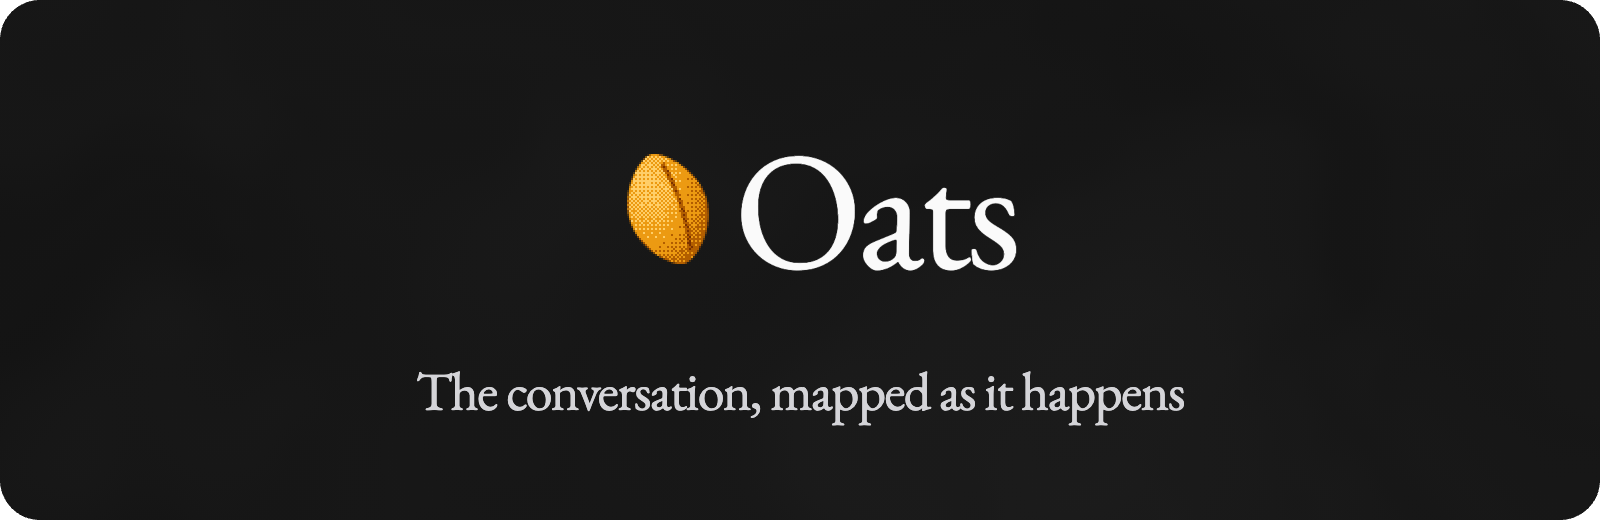
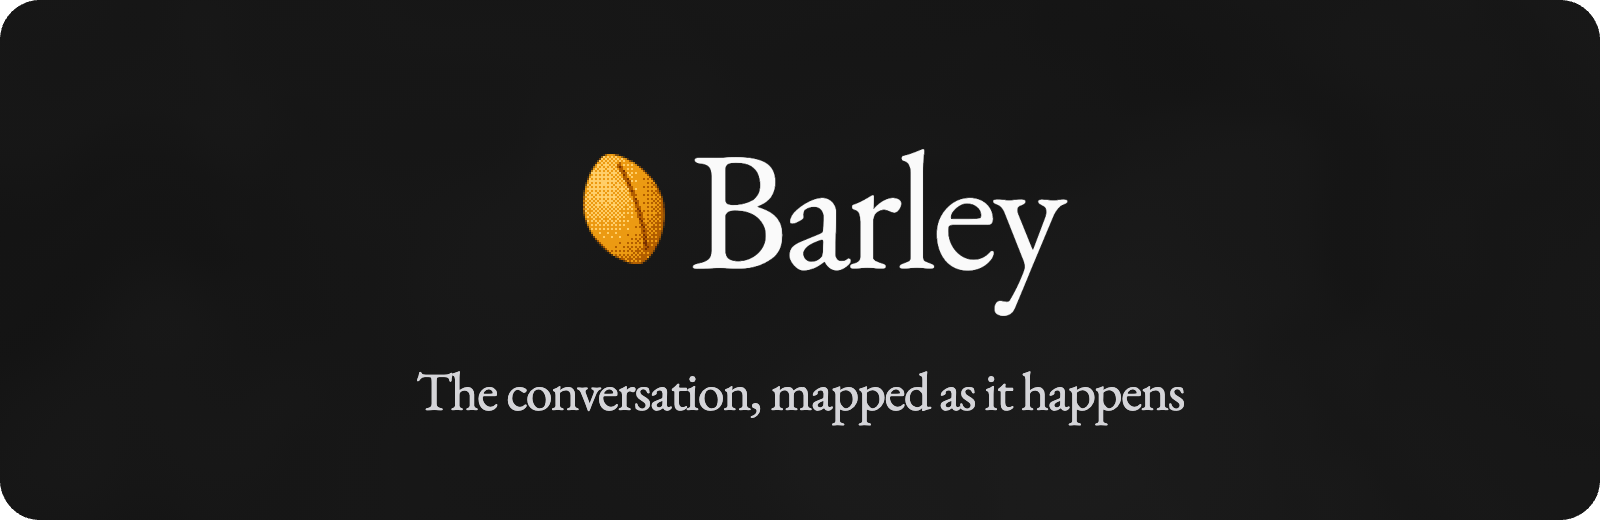
Site and README: the app is called Barley
HOLD: merging this publishes the site (Vercel deploys main). Merge it
on Alex's word, after the v0.4.0 release is published: the download
buttons now name Barley-arm64.dmg and Barley-x64.dmg, which only a
release built with the Barley bundle (#271) has.

- The site's text, title, link previews, 404 page and wordmark say
  Barley. site/assets/site.js is rebuilt (npm run build:site).
- The README says Barley and links to the Barley DMGs.
- site/render-images.cjs paints "Barley": the README banners, the link
  preview (og.png) and the repository's social preview. Its other
  images came out the same, so they are not in this commit.
- test/helpers/site.test.js checks the Barley names against the
  release job.

Not yet changed: the site's six screenshots, its four loops and the
film show the app with "Oats" in its sidebar. They need new renders.
The site stays at oats.alexgaoth.com until there is a new domain.

Changed region(s): [[0.3438, 0.2769, 0.6875, 0.6154]]

diff --git a/site/index.html b/site/index.html
@@ -3,10 +3,10 @@
   <head>
     <meta charset="utf-8" />
     <meta name="viewport" content="width=device-width, initial-scale=1, viewport-fit=cover" />
-    <title>Oats · A live map of the conversation in the room</title>
+    <title>Barley · A live map of the conversation in the room</title>
     <meta
       name="description"
-      content="Oats maps the conversation in the room as it happens: topics as they turn, questions as they're asked, and whether anyone answered. Free and open source."
+      content="Barley maps the conversation in the room as it happens: topics as they turn, questions as they're asked, and whether anyone answered. Free and open source."
     />
     <meta name="color-scheme" content="light" />
     <meta name="theme-color" content="#f3f3f3" />
@@ -16,19 +16,19 @@
     <link rel="apple-touch-icon" href="assets/apple-touch-icon.png" />
     <meta property="og:type" content="website" />
     <meta property="og:url" content="https://oats.alexgaoth.com/" />
-    <meta property="og:title" content="Oats · A live map of the conversation in the room" />
+    <meta property="og:title" content="Barley · A live map of the conversation in the room" />
     <meta
       property="og:description"
-      content="Oats maps the conversation in the room as it happens: topics as they turn, questions as they're asked, and whether anyone answered. Free and open source."
+      content="Barley maps the conversation in the room as it happens: topics as they turn, questions as they're asked, and whether anyone answered. Free and open source."
     />
     <meta property="og:image" content="https://oats.alexgaoth.com/assets/og.png" />
     <meta property="og:image:width" content="1200" />
     <meta property="og:image:height" content="630" />
     <meta name="twitter:card" content="summary_large_image" />
-    <meta name="twitter:title" content="Oats · A live map of the conversation in the room" />
+    <meta name="twitter:title" content="Barley · A live map of the conversation in the room" />
     <meta
       name="twitter:description"
-      content="Oats maps the conversation in the room as it happens: topics as they turn, questions as they're asked, and whether anyone answered. Free and open source."
+      content="Barley maps the conversation in the room as it happens: topics as they turn, questions as they're asked, and whether anyone answered. Free and open source."
     />
     <link rel="preload" href="assets/fonts/eb-garamond-latin-400.woff2" as="font" type="font/woff2" crossorigin />
     <link rel="preload" href="assets/fonts/inter-latin-wght.woff2" as="font" type="font/woff2" crossorigin />
@@ -40,9 +40,9 @@
 
     <header class="nav">
       <div class="wrap nav-row">
-        <a class="brand" href="#top" aria-label="Oats, back to the top">
+        <a class="brand" href="#top" aria-label="Barley, back to the top">
           <canvas class="mark mark-small" data-mark="small" aria-hidden="true"></canvas>
-          <span class="wordmark">Oats</span>
+          <span class="wordmark">Barley</span>
         </a>
         <nav class="nav-links" aria-label="Sections">
           <a href="#map">How it works</a>
@@ -64,10 +64,10 @@
           </button>
           <h1>The conversation, mapped as it happens</h1>
           <p class="lead">
-            Oats maps the conversation in the room as it happens: topics as they turn, questions as they're asked, and
+            Barley maps the conversation in the room as it happens: topics as they turn, questions as they're asked, and
             whether anyone answered.
           </p>
-          <p class="why"><span>Notes after the meeting come too late.</span> <span>Oats shows you the conversation while you can still steer it.</span></p>
+          <p class="why"><span>Notes after the meeting come too late.</span> <span>Barley shows you the conversation while you can still steer it.</span></p>
           <div class="cta-row">
             <a class="button button-honey button-large" data-download="primary" href="https://github.com/alexgaoth/oats/releases/latest">
               <svg class="icon" viewBox="0 0 24 24" aria-hidden="true"><path d="M12 15V3" /><path d="M21 15v4a2 2 0 0 1-2 2H5a2 2 0 0 1-2-2v-4" /><path d="m7 10 5 5 5-5" /></svg>
@@ -85,7 +85,7 @@
             <li>One microphone on the table</li>
           </ul>
           <p class="other-arch"><a data-other-arch href="https://github.com/alexgaoth/oats/releases/latest">Intel Mac? Get the Intel build</a></p>
-          <p class="not-mac">Oats is a Mac app. Open this page on a Mac to download it.</p>
+          <p class="not-mac">Barley is a Mac app. Open this page on a Mac to download it.</p>
         </div>
         <figure class="window hero-window" data-live-slot="hero">
           <img
@@ -94,7 +94,7 @@
             sizes="(min-width: 1180px) 1120px, calc(100vw - 32px)"
             width="1120"
             height="616"
-            alt="Oats recording a launch review at 11:09. One line draws the conversation, with marks where an unknown, an unanswered and an answered question were asked. Below it, three topics as lanes: Pellwood launch date decision, SAML clock skew fix, and SOC 2 audit timeline, the one the room is on."
+            alt="Barley recording a launch review at 11:09. One line draws the conversation, with marks where an unknown, an unanswered and an answered question were asked. Below it, three topics as lanes: Pellwood launch date decision, SAML clock skew fix, and SOC 2 audit timeline, the one the room is on."
             fetchpriority="high"
           />
         </figure>
@@ -153,7 +153,7 @@
             </dl>
           </div>
           <figure class="window feature-visual" data-live-slot="questions">
-            <video data-loop muted loop playsinline preload="none" poster="media/loop-questions.webp" width="1040" height="900" aria-label="A question is asked and its card appears as Open. After someone says they do not know, it turns Unknown and Oats searches it on the web">
+            <video data-loop muted loop playsinline preload="none" poster="media/loop-questions.webp" width="1040" height="900" aria-label="A question is asked and its card appears as Open. After someone says they do not know, it turns Unknown and Barley searches it on the web">
               <source src="media/loop-questions.mp4" type="video/mp4" />
             </video>
           </figure>
@@ -165,7 +165,7 @@
           <div class="feature-copy">
             <h2>Unsure answers, checked on the spot</h2>
             <p>
-              When an answer sounds unsure, Oats looks it up in your notes and past conversations while people are still
+              When an answer sounds unsure, Barley looks it up in your notes and past conversations while people are still
               talking.
             </p>
             <p class="aside">
@@ -174,7 +174,7 @@
             </p>
           </div>
           <figure class="window feature-visual">
-            <img src="media/check-live.webp" width="1728" height="1592" loading="lazy" decoding="async" alt="A recording at 8:33. Under the question Do we have a date from the auditors yet, asked 17 seconds earlier and marked Unknown, Oats shows Found it: Fieldwork starts November 10, from soc2-plan.md, Auditor dates. The transcript below has the reply: I don't know yet." />
+            <img src="media/check-live.webp" width="1728" height="1592" loading="lazy" decoding="async" alt="A recording at 8:33. Under the question Do we have a date from the auditors yet, asked 17 seconds earlier and marked Unknown, Barley shows Found it: Fieldwork starts November 10, from soc2-plan.md, Auditor dates. The transcript below has the reply: I don't know yet." />
           </figure>
         </div>
       </section>
@@ -237,12 +237,12 @@
           </div>
           <div class="privacy-copy">
             <ul class="privacy-lines">
-              <li>No account. No Oats server.</li>
+              <li>No account. No Barley server.</li>
               <li>On this Mac, audio and transcripts never leave it.</li>
               <li>With your API key, transcripts go to your provider, and the audio too if it's an OpenAI key.</li>
             </ul>
             <p>
-              When a question meets a clear <q>I don't know</q>, Oats opens a web search for the question text in your
+              When a question meets a clear <q>I don't know</q>, Barley opens a web search for the question text in your
               browser. You can turn that off in Settings.
             </p>
             <p>
@@ -251,7 +251,7 @@
             </p>
           </div>
           <figure class="counter">
-            <img src="media/sidebar-foot.webp" width="464" height="704" loading="lazy" decoding="async" alt="The bottom of the Oats sidebar: Settings, then On this Mac, small.en on Metal and 0 network requests since launch, above a dithered sky and wheat field." />
+            <img src="media/sidebar-foot.webp" width="464" height="704" loading="lazy" decoding="async" alt="The bottom of the Barley sidebar: Settings, then On this Mac, small.en on Metal and 0 network requests since launch, above a dithered sky and wheat field." />
           </figure>
         </div>
       </section>
@@ -285,7 +285,7 @@
           <button class="mark-button" type="button" aria-label="Toss the oat">
             <canvas class="mark mark-download" data-mark="large" data-interactive aria-hidden="true"></canvas>
           </button>
-          <h2>Get Oats for your Mac</h2>
+          <h2>Get Barley for your Mac</h2>
           <div class="cta-row">
             <a class="button button-honey button-large" data-download="primary" href="https://github.com/alexgaoth/oats/releases/latest">
               <svg class="icon" viewBox="0 0 24 24" aria-hidden="true"><path d="M12 15V3" /><path d="M21 15v4a2 2 0 0 1-2 2H5a2 2 0 0 1-2-2v-4" /><path d="m7 10 5 5 5-5" /></svg>
@@ -301,18 +301,18 @@
             <a data-other-arch href="https://github.com/alexgaoth/oats/releases/latest">Intel Mac? Get the Intel build</a>
             <span class="note">Built for Intel, not yet tested on an Intel Mac.</span>
           </p>
-          <p class="not-mac">Oats is a Mac app. Open this page on a Mac to download it.</p>
+          <p class="not-mac">Barley is a Mac app. Open this page on a Mac to download it.</p>
 
           <div class="first-run">
             <h3>The first time you open it</h3>
             <p>This version is not notarized by Apple yet, so macOS stops it once.</p>
             <ol>
-              <li>Open the DMG and drag Oats to Applications.</li>
-              <li>Open Oats. macOS says it cannot verify the app. Click Done.</li>
-              <li>Open System Settings, then Privacy &amp; Security. Scroll down and click Open Anyway next to <q>Oats was blocked</q>.</li>
+              <li>Open the DMG and drag Barley to Applications.</li>
+              <li>Open Barley. macOS says it cannot verify the app. Click Done.</li>
+              <li>Open System Settings, then Privacy &amp; Security. Scroll down and click Open Anyway next to <q>Barley was blocked</q>.</li>
               <li>Confirm with your password or Touch ID. macOS asks only once.</li>
             </ol>
-            <p class="first-run-next">In setup, choose where Oats runs: on this Mac, or with your own API key.</p>
+            <p class="first-run-next">In setup, choose where Barley runs: on this Mac, or with your own API key.</p>
           </div>
           <p class="consent">Tell people before you record. Some places, for example California, need everyone's consent.</p>
         </div>
@@ -323,7 +323,7 @@
       <div class="wrap footer-row">
         <div class="brand">
           <canvas class="mark mark-small" data-mark="small" aria-hidden="true"></canvas>
-          <span class="wordmark">Oats</span>
+          <span class="wordmark">Barley</span>
         </div>
         <ul class="footer-links">
           <li><a href="https://github.com/alexgaoth/oats">Source</a></li>

diff --git a/site/404.html b/site/404.html
@@ -3,7 +3,7 @@
   <head>
     <meta charset="utf-8" />
     <meta name="viewport" content="width=device-width, initial-scale=1, viewport-fit=cover" />
-    <title>Not found · Oats</title>
+    <title>Not found · Barley</title>
     <meta name="robots" content="noindex" />
     <meta name="color-scheme" content="light" />
     <link rel="icon" type="image/png" sizes="32x32" href="/assets/favicon-32.png" />
@@ -20,7 +20,7 @@
         <h2>This page is not here</h2>
         <p class="consent">The address may be old, or it may have a typo.</p>
         <div class="cta-row">
-          <a class="button button-quiet button-large" href="/">Go to the Oats home page</a>
+          <a class="button button-quiet button-large" href="/">Go to the Barley home page</a>
         </div>
       </div>
     </main>

diff --git a/test/helpers/site.test.js b/test/helpers/site.test.js
@@ -21,7 +21,7 @@ test("the site's script is built from the current sources", async () => {
 test("the download buttons use the names the release job publishes", () => {
   const download = fs.readFileSync(path.join(SITE, "src/download.js"), "utf8");
   const workflow = fs.readFileSync(path.join(ROOT, ".github/workflows/build-and-notarize.yml"), "utf8");
-  for (const name of ["Oats-arm64.dmg", "Oats-x64.dmg"]) {
+  for (const name of ["Barley-arm64.dmg", "Barley-x64.dmg"]) {
     assert.match(download, new RegExp(`/latest/download/${name.replace(".", "\\.")}`));
     assert.match(workflow, new RegExp(`\\b${name.replace(".", "\\.")}\\b`), `the release job publishes ${name}`);
   }

diff --git a/site/src/download.js b/site/src/download.js
@@ -1,11 +1,11 @@
 // The download buttons: one click to the right DMG. The release assets keep
 // the same names in every version (build-and-notarize.yml, the release job), so
-// "latest" always serves the newest published Oats.
+// "latest" always serves the newest published Barley.
 
 const RELEASES = "https://github.com/alexgaoth/oats/releases";
 export const DMG = {
-  arm64: `${RELEASES}/latest/download/Oats-arm64.dmg`,
-  x64: `${RELEASES}/latest/download/Oats-x64.dmg`,
+  arm64: `${RELEASES}/latest/download/Barley-arm64.dmg`,
+  x64: `${RELEASES}/latest/download/Barley-x64.dmg`,
 };
 
 function isMac() {

diff --git a/site/assets/site.js b/site/assets/site.js
@@ -282,8 +282,8 @@ function B(e) {
 //#endregion
 //#region site/src/download.js
 var V = "https://github.com/alexgaoth/oats/releases", H = {
-	arm64: `${V}/latest/download/Oats-arm64.dmg`,
-	x64: `${V}/latest/download/Oats-x64.dmg`
+	arm64: `${V}/latest/download/Barley-arm64.dmg`,
+	x64: `${V}/latest/download/Barley-x64.dmg`
 };
 function U() {
 	let e = navigator.userAgentData?.platform || navigator.platform || "";

diff --git a/site/src/mark.js b/site/src/mark.js
@@ -1,4 +1,4 @@
-// The Oats symbol on the site: the app's own grain (src/components/shell/
+// The Barley symbol on the site: the app's own grain (src/components/shell/
 // grainCanvas.ts) and its own toss (src/helpers/oatsMarkMotion.mjs), dithered the
 // way the film and the app icon show it: about 110 dots across, each a crisp
 // square of device pixels, in the four honey tones pushed apart

diff --git a/site/assets/site.css b/site/assets/site.css
@@ -1,4 +1,4 @@
-/* Oats site. The app's tokens (DESIGN.md §2): zinc neutrals and one honey
+/* Barley site. The app's tokens (DESIGN.md §2): zinc neutrals and one honey
    brand colour. The film's stage and wordmark: light grey fluid behind the
    window, EB Garamond for the name and the headings, Inter for everything
    else. One light theme, like the film. */

diff --git a/README.md b/README.md
@@ -2,35 +2,35 @@
   <a href="https://oats-mac.vercel.app">
     <picture>
       <source media="(prefers-color-scheme: dark)" srcset="docs/media/banner-dark.png">
-      <img src="docs/media/banner-light.png" width="800" alt="Oats. The conversation, mapped as it happens.">
+      <img src="docs/media/banner-light.png" width="800" alt="Barley. The conversation, mapped as it happens.">
     </picture>
   </a>
 </p>
 
 <p align="center">
-  Oats maps the conversation in the room as it happens: topics as they turn,<br>
+  Barley maps the conversation in the room as it happens: topics as they turn,<br>
   questions as they're asked, and whether anyone answered.
 </p>
 
 <p align="center">
   Notes after the meeting come too late.<br>
-  Oats shows you the conversation while you can still steer it.
+  Barley shows you the conversation while you can still steer it.
 </p>
 
 <p align="center">
-  <a href="https://github.com/alexgaoth/oats/releases/latest/download/Oats-arm64.dmg"><img src="docs/media/download-mac.png" width="260" alt="Download Oats for Mac"></a>
+  <a href="https://github.com/alexgaoth/oats/releases/latest/download/Barley-arm64.dmg"><img src="docs/media/download-mac.png" width="260" alt="Download Barley for Mac"></a>
 </p>
 
 <p align="center">
-  <sub>Version 0.2.0 for Apple Silicon, macOS 12 or later. Also as an <a href="https://github.com/alexgaoth/oats/releases/latest/download/Oats-x64.dmg">Intel build</a>, not yet tested on an Intel Mac.</sub><br>
+  <sub>Version 0.2.0 for Apple Silicon, macOS 12 or later. Also as an <a href="https://github.com/alexgaoth/oats/releases/latest/download/Barley-x64.dmg">Intel build</a>, not yet tested on an Intel Mac.</sub><br>
   <sub><a href="https://oats-mac.vercel.app">Website</a> · <a href="https://github.com/alexgaoth/oats/releases/latest">Release notes</a></sub>
 </p>
 
 <p align="center">
-  <img src="site/media/live-window-2240.webp" width="880" alt="Oats recording a launch review at 11:09. One line draws the conversation, with marks where an unknown, an unanswered and an answered question were asked. Below it, three topics as lanes: Pellwood launch date decision, SAML clock skew fix, and SOC 2 audit timeline, the one the room is on.">
+  <img src="site/media/live-window-2240.webp" width="880" alt="Barley recording a launch review at 11:09. One line draws the conversation, with marks where an unknown, an unanswered and an answered question were asked. Below it, three topics as lanes: Pellwood launch date decision, SAML clock skew fix, and SOC 2 audit timeline, the one the room is on.">
 </p>
 
-The conversations that matter happen around a table. Taking notes pulls you out of them, and meeting bots join calls, not rooms. Oats sits on the table with one microphone. While you talk, the screen shows the shape of the conversation and nothing that competes with the people in front of you.
+The conversations that matter happen around a table. Taking notes pulls you out of them, and meeting bots join calls, not rooms. Barley sits on the table with one microphone. While you talk, the screen shows the shape of the conversation and nothing that competes with the people in front of you.
 
 ## What it does
 
@@ -46,7 +46,7 @@ Press <kbd>⇧</kbd><kbd>⌘</kbd><kbd>O</kbd> and talk. One line draws the conv
 
 Each topic gets its name from what was said. When the room comes back to one, the line goes back too.
 
-The conversation flow under the line keeps one lane per topic, in the order raised, with the minutes spent on each. **Graph** shows the same topics by when each was raised and how unsettled it still is. Oats finds the topics on your Mac and names each with a phrase said in it, and the writing model names it more exactly as it grows. Under the lanes are topics that came up with these in earlier conversations and have not come up yet.
+The conversation flow under the line keeps one lane per topic, in the order raised, with the minutes spent on each. **Graph** shows the same topics by when each was raised and how unsettled it still is. Barley finds the topics on your Mac and names each with a phrase said in it, and the writing model names it more exactly as it grows. Under the lanes are topics that came up with these in earlier conversations and have not come up yet.
 
 <p align="center">
   <img src="site/media/topic-lanes.webp" width="840" alt="Conversation flow at 12:33, three topics and one return to an earlier topic. The line steps down from Pellwood launch date decision to SAML clock skew fix and SOC 2 audit timeline, then goes back up to Pellwood launch date decision, where the room is now.">
@@ -61,29 +61,29 @@ On the line, a question is a mark. With the transcript shown, it is also a card 
 | Card | When |
 |---|---|
 | **Answered** | Someone gave an answer. |
-| **Unknown** | The room said it did not know. Oats opens a web search for the question. |
+| **Unknown** | The room said it did not know. Barley opens a web search for the question. |
 | **Unanswered** | The room moved on. |
 | **Open** | Nobody has replied yet. |
 
 <p align="center">
-  <img src="docs/media/loop-questions.webp" width="560" alt="A question is asked and its card appears as Open. After someone says they do not know, it turns Unknown and Oats searches it on the web">
+  <img src="docs/media/loop-questions.webp" width="560" alt="A question is asked and its card appears as Open. After someone says they do not know, it turns Unknown and Barley searches it on the web">
 </p>
 
 ### Unsure answers, checked on the spot
 
-When an answer sounds unsure, Oats looks it up in your notes and past conversations while people are still talking.
+When an answer sounds unsure, Barley looks it up in your notes and past conversations while people are still talking.
 
-It is off by default: turn on the context check in Settings and choose a folder of notes. Under the question, Oats says **That's right**, **Wait, that's wrong**, or **Found it** when the room did not know, with the answer and the file it came from. When the folder and your past conversations have no answer, Oats can also ask Claude Code, if you turn that on too: it reads your GitHub, Linear, Notion and Slack connections, read only, and the question and the reply go to Anthropic, and the search text to those services.
+It is off by default: turn on the context check in Settings and choose a folder of notes. Under the question, Barley says **That's right**, **Wait, that's wrong**, or **Found it** when the room did not know, with the answer and the file it came from. When the folder and your past conversations have no answer, Barley can also ask Claude Code, if you turn that on too: it reads your GitHub, Linear, Notion and Slack connections, read only, and the question and the reply go to Anthropic, and the search text to those services.
 
 <p align="center">
-  <img src="site/media/check-live.webp" width="640" alt="A recording at 8:33. Under the question Do we have a date from the auditors yet, asked 17 seconds earlier and marked Unknown, Oats shows Found it: Fieldwork starts November 10, from soc2-plan.md, Auditor dates. The transcript below has the reply: I don't know yet.">
+  <img src="site/media/check-live.webp" width="640" alt="A recording at 8:33. Under the question Do we have a date from the auditors yet, asked 17 seconds earlier and marked Unknown, Barley shows Found it: Fieldwork starts November 10, from soc2-plan.md, Auditor dates. The transcript below has the reply: I don't know yet.">
 </p>
 
 ### Written up when you stop
 
 Title, summary, talk time for each person, and the transcript with every voice told apart.
 
-The summary starts by itself when you stop, with the threads the conversation followed, the decisions and the action items, next to how each question ended. It is written by a model on your Mac, which Oats downloads by itself, or with your own API key. The transcript, the voices, the questions and the shape of the conversation need no writing model.
+The summary starts by itself when you stop, with the threads the conversation followed, the decisions and the action items, next to how each question ended. It is written by a model on your Mac, which Barley downloads by itself, or with your own API key. The transcript, the voices, the questions and the shape of the conversation need no writing model.
 
 <p align="center">
   <img src="site/media/conversation-finished.webp" width="560" alt="The finished conversation, Enterprise launch review: SSO gates the date. 29 minutes, 9 speakers, 3 marked moments, and 15 questions: 9 answered, 3 unknown, 2 unanswered, 1 open. Below, the shape of the conversation with each question in its place, and talk time for each person, from Maya at 18 percent to Omar at 2 percent.">
@@ -111,11 +111,11 @@ The board lays out every conversation as a graph and as a timeline, so a topic t
 
 ## Privacy you can check
 
-<img align="right" src="site/media/sidebar-foot.webp" width="190" alt="The bottom of the Oats sidebar: Settings, then On this Mac, small.en on Metal and 0 network requests since launch, above a dithered sky and wheat field.">
+<img align="right" src="site/media/sidebar-foot.webp" width="190" alt="The bottom of the Barley sidebar: Settings, then On this Mac, small.en on Metal and 0 network requests since launch, above a dithered sky and wheat field.">
 
-On this Mac, audio and transcripts never leave it: transcription runs on whisper.cpp with Metal, and summaries on a local model. There is no Oats account and no Oats server. With your own API key, transcripts go to your provider for summaries, and with an OpenAI key the audio goes to OpenAI for transcription.
+On this Mac, audio and transcripts never leave it: transcription runs on whisper.cpp with Metal, and summaries on a local model. There is no Barley account and no Barley server. With your own API key, transcripts go to your provider for summaries, and with an OpenAI key the audio goes to OpenAI for transcription.
 
-One thing is on by default, and you can turn it off in Settings: when a question meets a clear "I don't know", Oats opens a web search for the question text in your browser.
+One thing is on by default, and you can turn it off in Settings: when a question meets a clear "I don't know", Barley opens a web search for the question text in your browser.
 
 The sidebar counts every network request since launch. Calls to the speech, writing and search servers that run on your Mac are not counted, because they never leave it. [The network allowlist](docs/network-allowlist.md) lists every destination.
 
@@ -145,10 +145,10 @@ The record shortcut can be changed in Settings.
 
 ## Install
 
-1. Download Oats for [Apple Silicon](https://github.com/alexgaoth/oats/releases/latest/download/Oats-arm64.dmg) or [Intel](https://github.com/alexgaoth/oats/releases/latest/download/Oats-x64.dmg). It needs macOS 12 Monterey or later. The speech models ship inside, so it transcribes offline from the first launch: on Apple Silicon, Whisper `small.en` for English and multilingual `base` for every other language; on Intel, `base.en` and `base`.
-2. Open the DMG and drag Oats to Applications.
-3. Open Oats. This version is not notarized by Apple yet, so macOS says it cannot verify the app. Click Done.
-4. Open System Settings, then Privacy & Security. Scroll down and click Open Anyway next to "Oats was blocked", and confirm with your password or Touch ID. macOS asks only once.
+1. Download Barley for [Apple Silicon](https://github.com/alexgaoth/oats/releases/latest/download/Barley-arm64.dmg) or [Intel](https://github.com/alexgaoth/oats/releases/latest/download/Barley-x64.dmg). It needs macOS 12 Monterey or later. The speech models ship inside, so it transcribes offline from the first launch: on Apple Silicon, Whisper `small.en` for English and multilingual `base` for every other language; on Intel, `base.en` and `base`.
+2. Open the DMG and drag Barley to Applications.
+3. Open Barley. This version is not notarized by Apple yet, so macOS says it cannot verify the app. Click Done.
+4. Open System Settings, then Privacy & Security. Scroll down and click Open Anyway next to "Barley was blocked", and confirm with your password or Touch ID. macOS asks only once.
 
 The SHA-256 checksums are in [SHA256SUMS.txt](https://github.com/alexgaoth/oats/releases/latest/download/SHA256SUMS.txt). On an empty Home, open the **example conversation**, a nine-person launch review, to explore everything before you record.
 
@@ -166,11 +166,11 @@ npm run setup:check
 npm run dev
 ```
 
-[Developing Oats](docs/development.md) has the full setup, the Linux notes and the test suites. The public page lives in [site/](site/README.md).
+[Developing Barley](docs/development.md) has the full setup, the Linux notes and the test suites. The public page lives in [site/](site/README.md).
 
 ## How it works
 
-Oats is an Electron app. The interface is React. The main process runs the local speech server (whisper.cpp), an optional local language model (llama.cpp) for summaries, local embeddings for related-conversation search, and SQLite with full-text search for the transcripts. The topic tracker and the question detector are plain code over the transcript, so they cost nothing to run for an hour and never need a network. [Architecture](docs/architecture.md) maps the modules, [DESIGN.md](DESIGN.md) is the design reference, and [the product description](docs/product.md) explains each behaviour in depth.
+Barley is an Electron app. The interface is React. The main process runs the local speech server (whisper.cpp), an optional local language model (llama.cpp) for summaries, local embeddings for related-conversation search, and SQLite with full-text search for the transcripts. The topic tracker and the question detector are plain code over the transcript, so they cost nothing to run for an hour and never need a network. [Architecture](docs/architecture.md) maps the modules, [DESIGN.md](DESIGN.md) is the design reference, and [the product description](docs/product.md) explains each behaviour in depth.
 
 ## Principles
 
@@ -180,7 +180,7 @@ Oats is an Electron app. The interface is React. The main process runs the local
 
 ## Acknowledgements
 
-Oats grew out of [OpenWhispr](https://github.com/OpenWhispr/openwhispr), an MIT-licensed desktop dictation app, and [UPSTREAM.md](UPSTREAM.md) records the provenance. Transcription uses [whisper.cpp](https://github.com/ggml-org/whisper.cpp), local models run on [llama.cpp](https://github.com/ggml-org/llama.cpp), the interface is set in [Inter](https://rsms.me/inter/), and the wordmark in [EB Garamond](https://github.com/octaviopardo/EBGaramond12). Topic names prefer distinctive words by their rank in English, from the Google Books Ngram corpus as counted by [google-books-ngram-frequency](https://github.com/orgtre/google-books-ngram-frequency) (CC BY 3.0). The speed check that picks the speech model for a Mac reads one utterance from [LibriSpeech](https://www.openslr.org/12) (Panayotov et al., CC BY 4.0): test-clean 7127-75946-0024, read by Bill Kneeland for LibriVox.
+Barley grew out of [OpenWhispr](https://github.com/OpenWhispr/openwhispr), an MIT-licensed desktop dictation app, and [UPSTREAM.md](UPSTREAM.md) records the provenance. Transcription uses [whisper.cpp](https://github.com/ggml-org/whisper.cpp), local models run on [llama.cpp](https://github.com/ggml-org/llama.cpp), the interface is set in [Inter](https://rsms.me/inter/), and the wordmark in [EB Garamond](https://github.com/octaviopardo/EBGaramond12). Topic names prefer distinctive words by their rank in English, from the Google Books Ngram corpus as counted by [google-books-ngram-frequency](https://github.com/orgtre/google-books-ngram-frequency) (CC BY 3.0). The speed check that picks the speech model for a Mac reads one utterance from [LibriSpeech](https://www.openslr.org/12) (Panayotov et al., CC BY 4.0): test-clean 7127-75946-0024, read by Bill Kneeland for LibriVox.
 
 Parakeet Ultra, a model you can choose on Apple Silicon, is [moondream/parakeet-ultra](https://huggingface.co/moondream/parakeet-ultra) (CC-BY-4.0), a post-training of NVIDIA's Parakeet TDT 0.6B v3 (CC-BY-4.0), in the Core ML build of [FluidInference](https://huggingface.co/FluidInference/parakeet-ultra-coreml). It runs on [FluidAudio](https://github.com/FluidInference/FluidAudio) (Apache-2.0), behind [Silero VAD](https://github.com/snakers4/silero-vad) (MIT).
 

diff --git a/site/README.md b/site/README.md
@@ -1,6 +1,6 @@
-# The Oats site
+# The Barley site
 
-The public page for Oats, served as it is from this folder (no build on the host).
+The public page for Barley, served as it is from this folder (no build on the host).
 Production: https://oats.alexgaoth.com (Vercel project `oats-mac`, root directory `site`).
 
 | Path | What it is |
@@ -21,7 +21,7 @@ python3 -m http.server 5480 --directory site        # look at it locally
 Five figures carry `data-live-slot` (`hero`, `map`, `topics`, `questions`, `after`): the places where the app's
 own components can run live. The still or the loop inside each is what shows until then.
 
-The download buttons link to `releases/latest/download/Oats-arm64.dmg` and `Oats-x64.dmg`, the names the
+The download buttons link to `releases/latest/download/Barley-arm64.dmg` and `Barley-x64.dmg`, the names the
 release job publishes in every version, so a new release needs no change here except the version on the page.
 `test/helpers/site.test.js` checks that, the bundle, the files the page uses, the live slots, the media
 manifest, and the voice rules.
